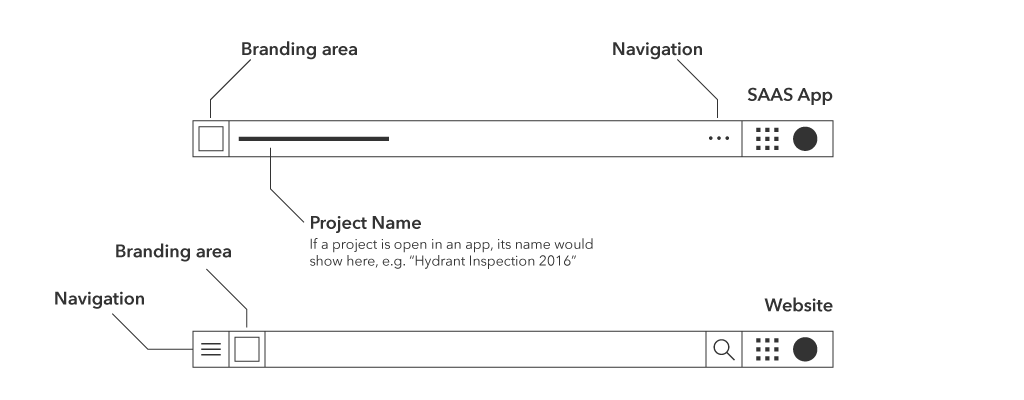
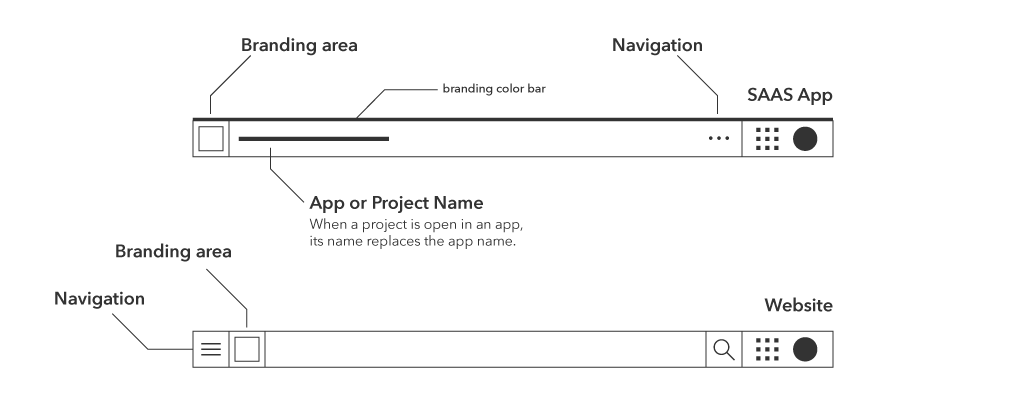
updated README

diff --git a/README.md b/README.md
@@ -29,6 +29,14 @@ The **Globally-shared** section should receive little to no customization within
 
 ## Tablet
 ![Global Nav structure](https://github.com/ArcGIS/esri-global-nav/raw/master/readme-assets/esri-global-nav-concepts-mobile.png)
+SAAS Apps
+* Nav items are condensed and hidden under the ellipses icon and lives on the right.
+* App name/Project name remains
+* Logo remains (takes you to dashboard)
+
+Website
+* Nav items are condensed and hidden under the burger icon and lives on the left.
+* Logo remains (takes you home)
 
 ## Integrations
 Integrations for frameworks such as [Ember.js](http://emberjs.com/) and [AngularJS](https://angularjs.org/) would be a great addition and contributions are welcome.
